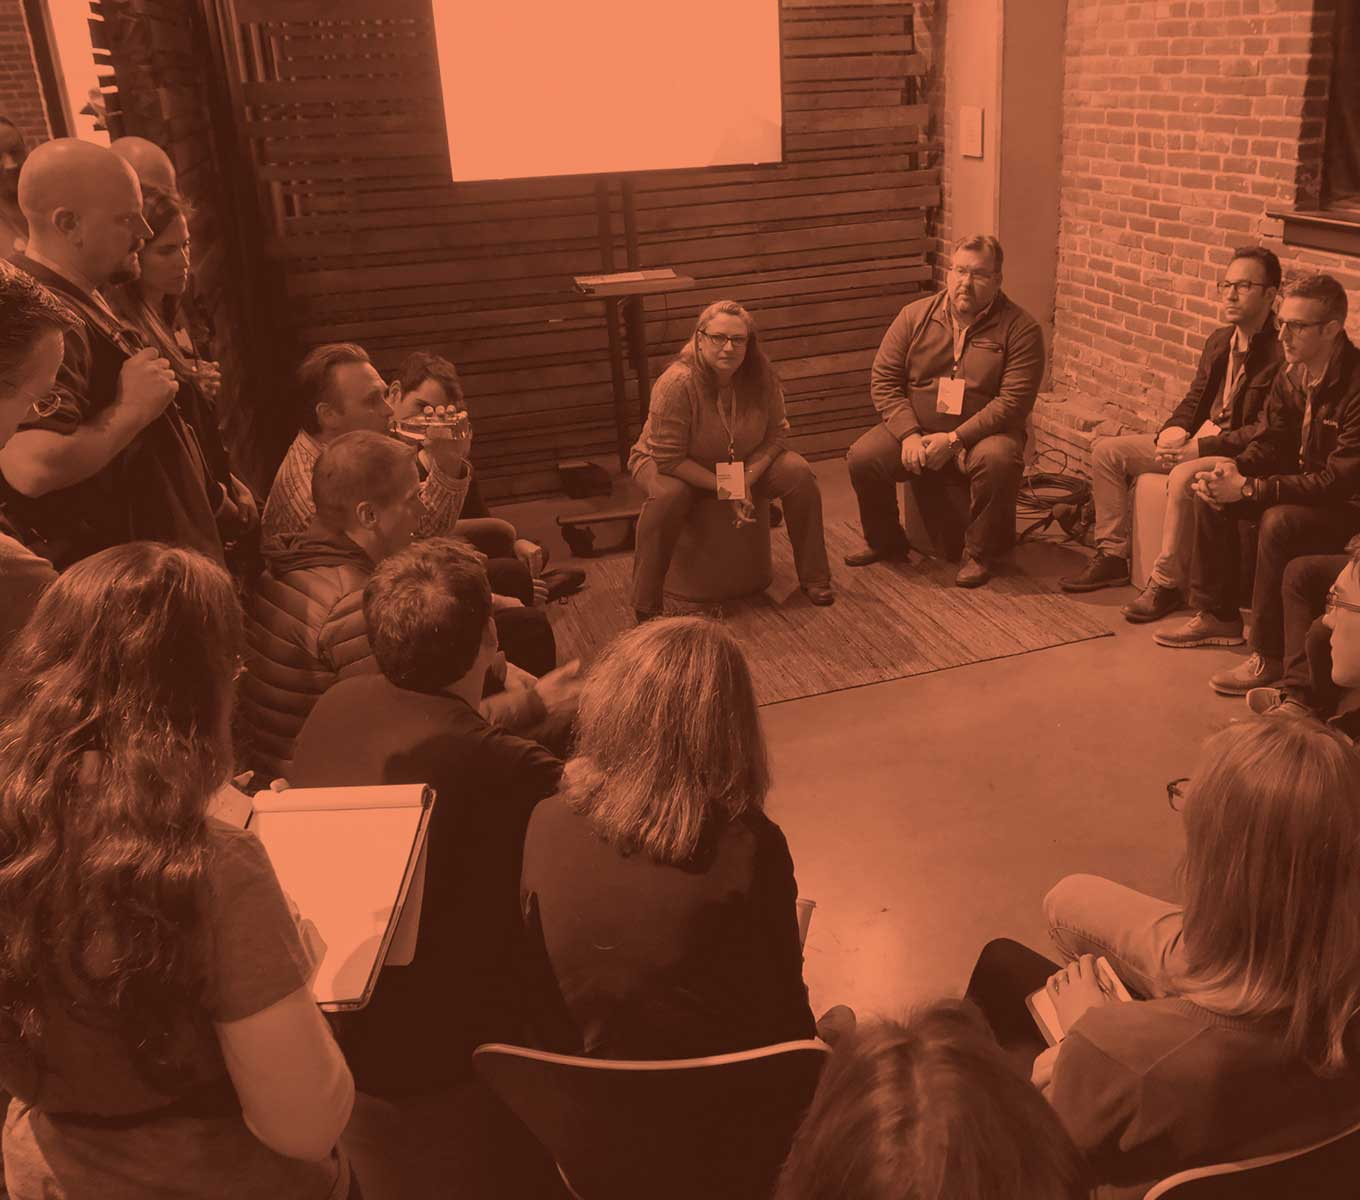
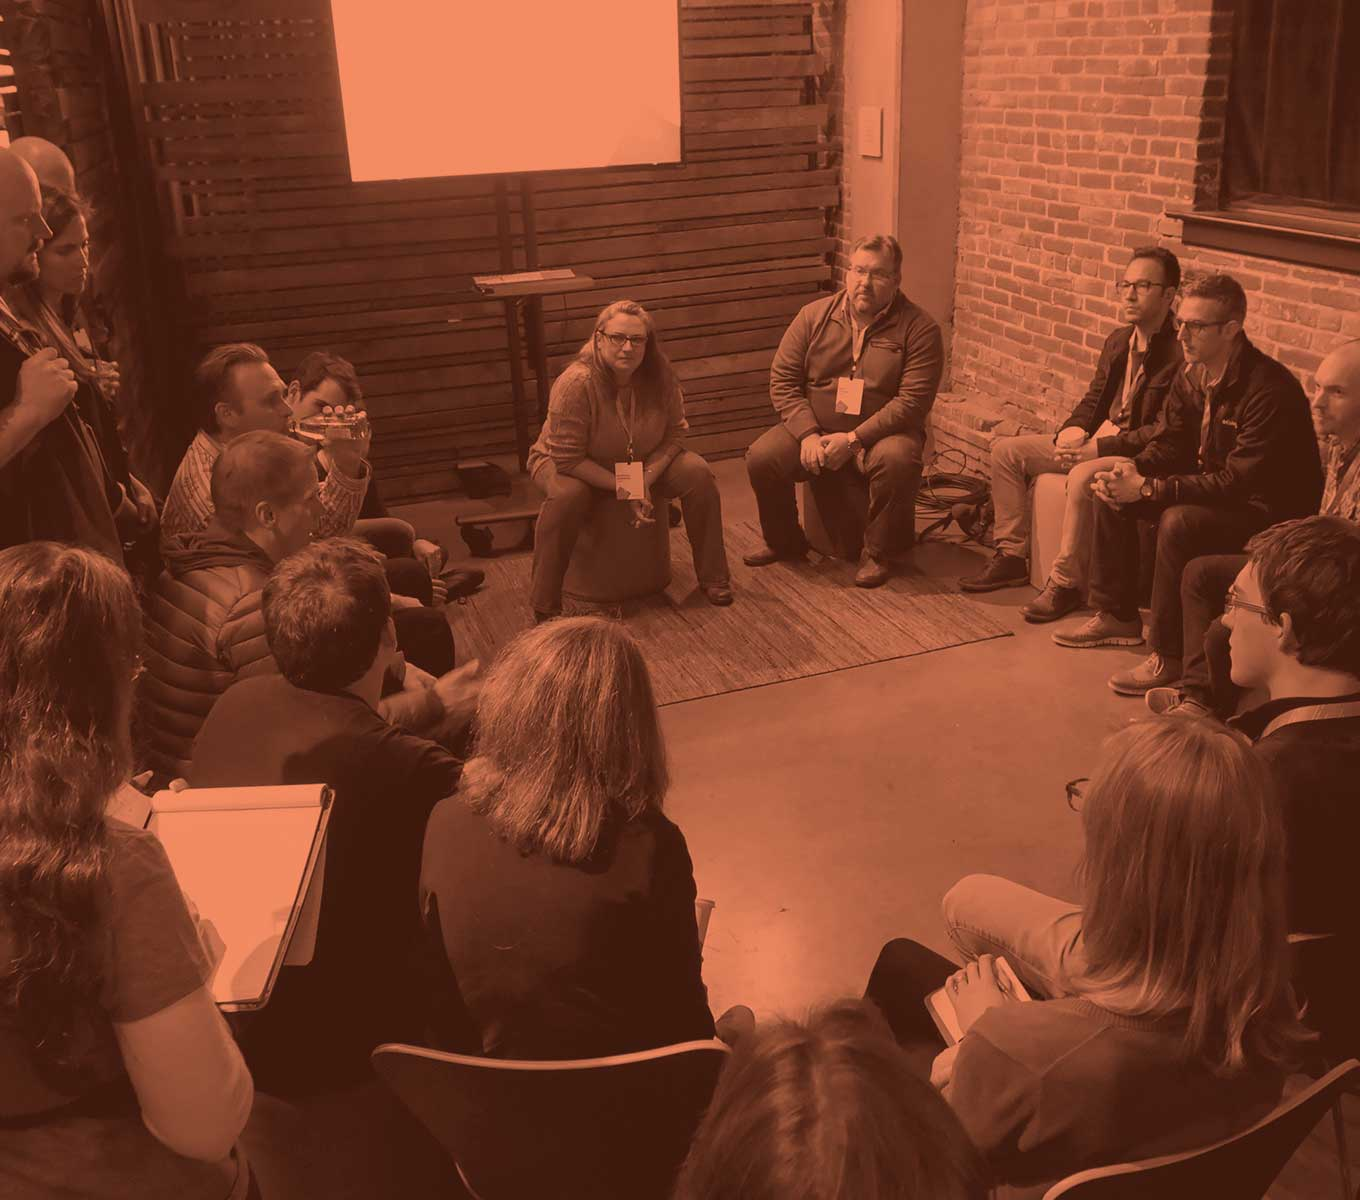
Fade in hero image.

diff --git a/source/js/hero.js b/source/js/hero.js
@@ -1,0 +1,30 @@
+(function() {
+    'use strict';
+
+    // heavily inspired by https://css-tricks.com/the-blur-up-technique-for-loading-background-images/
+    // hero image on page?
+    var hero = document.getElementsByClassName('hero')[0];
+    if (hero) {
+        // get the background-image src
+        var bgSrc = (window.getComputedStyle(hero, '::before').getPropertyValue("background-image"));
+        if (bgSrc) {
+            // remove the stuff from the src we don't need
+            // remove opening url(
+            bgSrc = bgSrc.replace(/^url\(/, '');
+            // remove opening " or ' if there is one
+            bgSrc = bgSrc.replace(/^\"|^\'/, '');
+            // remove closing )
+            bgSrc = bgSrc.replace(/\)$/, '');
+            // remove closing " or ' if there is one
+            bgSrc = bgSrc.replace(/\"$|\'$/,'');
+
+            // set up loader
+            var img = new Image();
+            img.onload = function() {
+                hero.className += ' ' + 'hero-loaded';
+            };
+            // attach src to trigger load
+            img.src = bgSrc;
+        }
+    }
+})();

diff --git a/layouts/includes/header.html b/layouts/includes/header.html
@@ -1,4 +1,4 @@
-<header id="header" class="section {% if conference_data.slug %}section-gradient{% else %} section-grid{% endif %} section-fadeend">
+<header id="header" class="header section {% if conference_data.slug %}section-gradient{% else %} section-grid{% endif %} section-fadeend">
     <div class="header_body">
 
         <a href="/" class="header_logo">

diff --git a/layouts/common.html b/layouts/common.html
@@ -35,4 +35,16 @@
 
         <script src="/{{ fingerprint['js/main.js'] }}" async></script>
     <!-- <![endif]-->
+
+    <!--[if lte IE 10]>
+    <script>
+        (function() {
+            'use strict';
+            var html = document.documentElement;
+            html.className = 'js-siteno';
+        })()
+    </script>
+    <![endif]-->
+
+
 </html>
